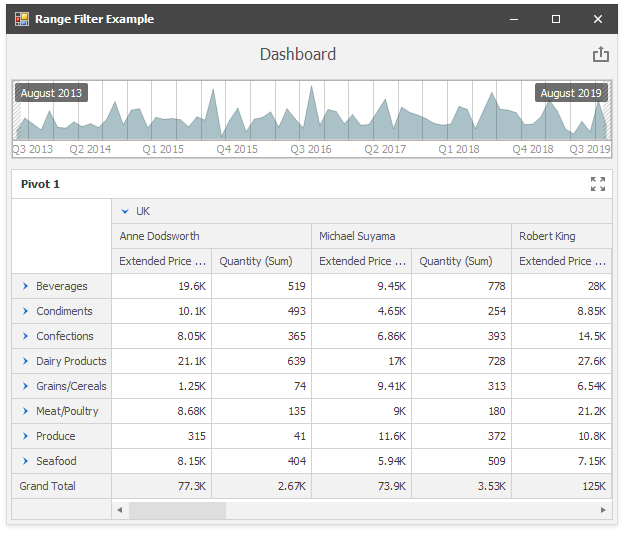
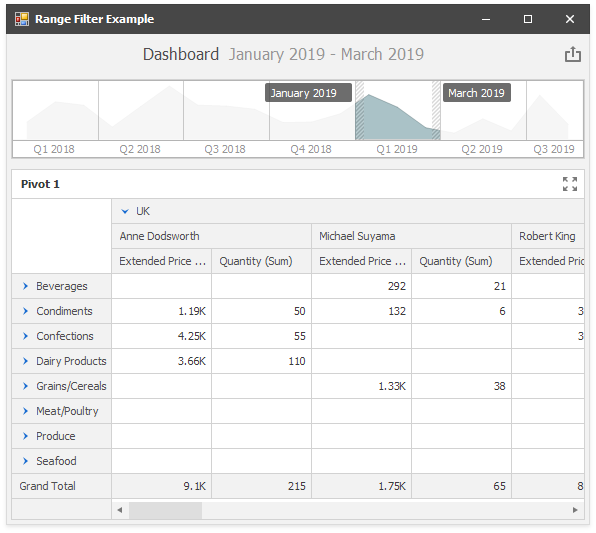
Update code and screenshot

diff --git a/CS/Dashboard_CreateRangeFilter/Form1.cs b/CS/Dashboard_CreateRangeFilter/Form1.cs
@@ -26,21 +26,25 @@ namespace Dashboard_CreateRangeFilter
             rangeFilter.Argument = new Dimension("OrderDate");
             // Specify a group interval for argument values.
             rangeFilter.Argument.DateTimeGroupInterval = DateTimeGroupInterval.MonthYear;
+            // Restrict the displayed data.
+            rangeFilter.FilterString = "[OrderDate] > #2018-01-01#";
             // Add predefined ranges to the context menu.
             // You can show the item caption and use the Select Date Time Periods drop-down button to apply predefined ranges.
             rangeFilter.DateTimePeriods.AddRange(
                 DateTimePeriod.CreateLastYear(),
-                DateTimePeriod.CreateNextDays("Next 7 Days", 7),
+                DateTimePeriod.CreateNextMonths("Next 3 Months", 3),
                 new DateTimePeriod
-                { Name = "Month To Date",
-                  Start = new FlowDateTimePeriodLimit(DateTimeInterval.Month,0),
-                  End = new FlowDateTimePeriodLimit(DateTimeInterval.Day,1)
+                { Name = "Year To Date",
+                  Start = new FlowDateTimePeriodLimit(DateTimeInterval.Year, 0),
+                  End = new FlowDateTimePeriodLimit(DateTimeInterval.Day, 1)
                 },
                 new DateTimePeriod
                 { Name = "Jul-18-2018 - Jan-18-2019",
                   Start = new FixedDateTimePeriodLimit(new DateTime(2018, 7, 18)),
                   End = new FixedDateTimePeriodLimit(new DateTime(2019, 1, 18)) }
                 );
+            // Specify the period selected when the control is initialized.
+            rangeFilter.DefaultDateTimePeriodName = "Year To Date";
             // The caption is initially hidden. Uncomment the line to show the caption.
             //rangeFilter.ShowCaption = true;
             return rangeFilter;
